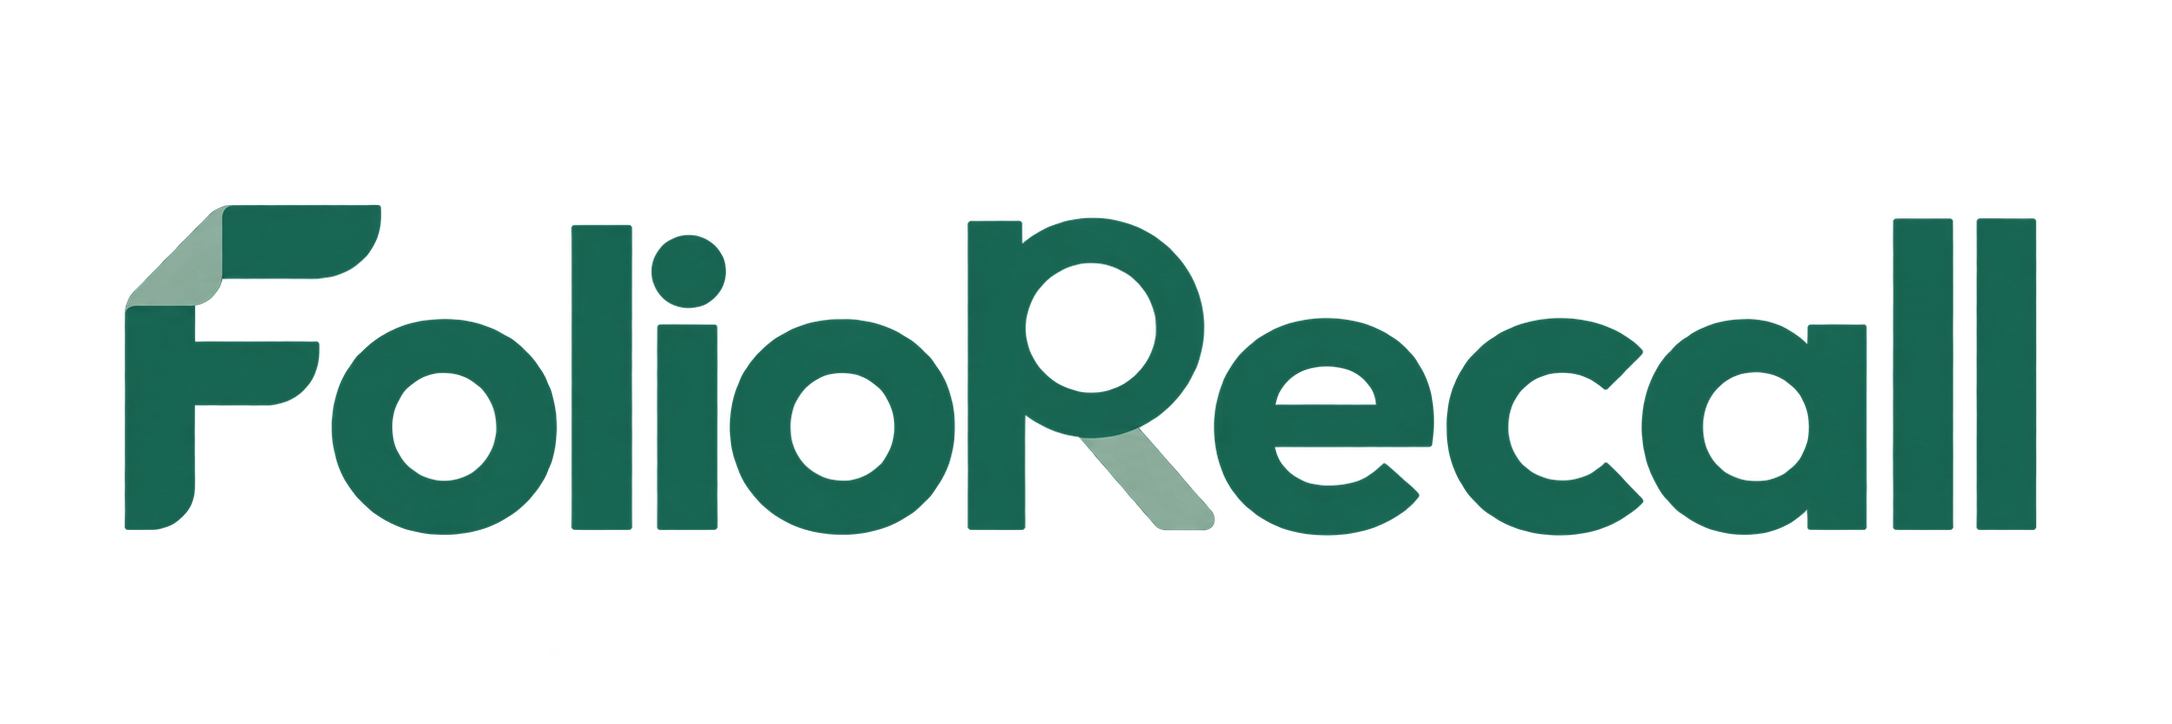
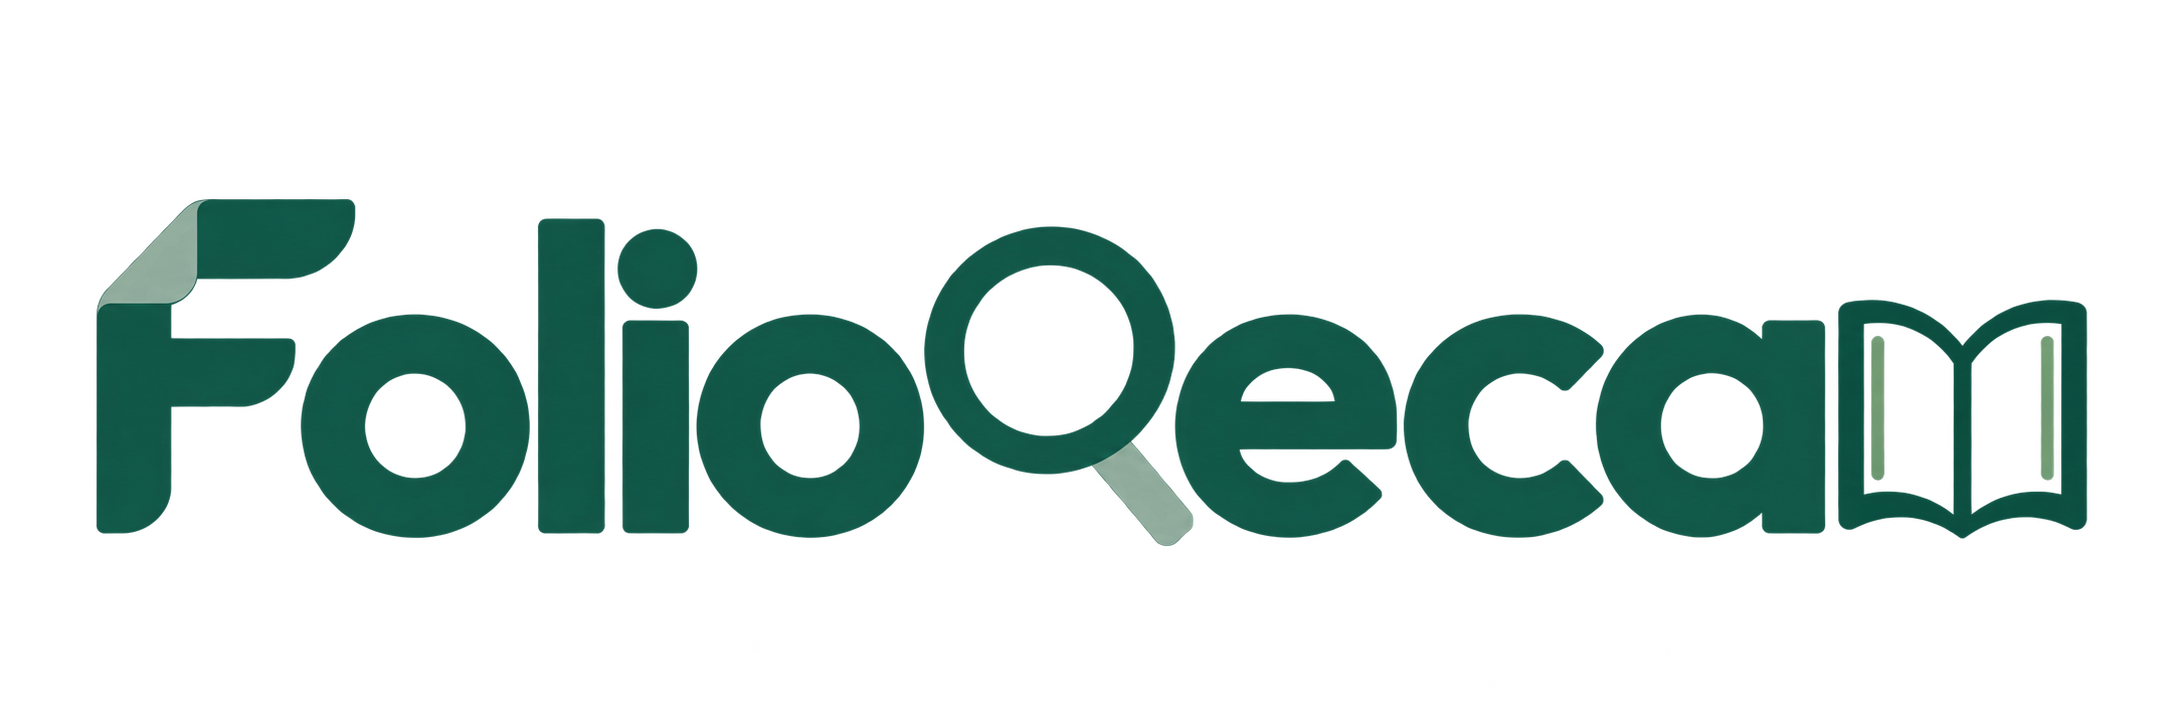
brand: 用放大镜替换 R 并将末尾 ll 融为书本

Changed region(s): [[0.0308, 0.2735, 0.9871, 0.7597]]

diff --git a/doc/assets/logo-source.md b/doc/assets/logo-source.md
@@ -1,6 +1,6 @@
 # FolioRecall 标识
 
-完整字标由项目名称 FolioRecall 变形构成：F 的上横融入翻页折角，R 的圆框和斜笔组成放大镜，保留竖笔以维持字母辨识度。首字母 F 单独用于浏览器图标。采用深绿与灰绿，图形保留透明底；页寻使用界面文字显示。
+完整字标由项目名称 FolioRecall 变形构成：F 的上横融入翻页折角，R 的位置直接使用放大镜，末尾两个 l 合并为打开的书本。首字母 F 单独用于浏览器图标。采用深绿与灰绿，图形保留透明底；页寻使用界面文字显示。完整项目名同时保留在README标题、图片替代文字和浏览器标题中。
 
 资源由 OpenAI 内置 image_gen 生成，未使用上游项目标识。原图为 `foliorecall-wordmark.png` 和 `foliorecall-lettermark.png`；前端与README使用 `foliorecall/assets/wordmark.png`，浏览器图标使用同目录 `logo.png`。附带发布包的 `branding` 目录提供原图和显示尺寸。
 
@@ -14,10 +14,24 @@ Use case: logo-brand. Design an original, thoughtful CUSTOM LETTERING LOGO for t
 
 ## R 放大镜修订提示
 
-以初版字标为输入，按用户要求将 R 改为放大镜。当前 `foliorecall-wordmark.png` 是此轮修订结果；首字母图标沿用初版 F。
+以初版字标为输入，第一次修订仍保留R竖笔。用户随后要求放大镜直接可辨，最终采用下方的完整图形替换；首字母图标沿用初版F。
 
 ```text
 Edit the supplied FolioRecall custom wordmark. Preserve the folded F and every lowercase letter exactly in design, typography, position, spelling and dark teal/sage palette. Change ONLY the capital R into an unmistakable magnifying-glass letterform, while keeping it clearly readable as R. Build its upper bowl as a truly circular magnifying-glass frame, with transparent empty lens, joined to the existing vertical left stem; use the diagonal R leg as a straight clean magnifier handle descending toward the lower right. Remove the current flowing curled ribbon leg; the new sage handle should be geometric, compact and match the thickness and rounded finishing of the rest of the type. The ring and upright are dark forest teal #176A58, handle muted sage #91B5A3. Do not add a separate magnifying-glass icon next to the text: the R itself IS the magnifier. Preserve clear separation from adjacent o and e. Keep the name spelled exactly FolioRecall, capital F and R. Preserve the minimalist flat, crisp, transparent-background logo, one horizontal wordmark, no caption, no decorative elements, no shadow, no gradients, no background fill. Maintain the same wide composition.
+```
+
+## R 直接替换为放大镜
+
+```text
+Make ONE very specific edit to this FolioRecall logo. The user wants an immediately recognizable literal MAGNIFYING GLASS in the position currently occupied by the uppercase R. DELETE THE ENTIRE R INCLUDING ITS LEFT VERTICAL STEM. Replace it with the familiar search icon: a clean perfectly circular ring with a large transparent empty lens, and an obvious short straight thick handle extending diagonally down and right at 45 degrees OUTSIDE the ring. No vertical stem at all, no P or R skeleton, no ribbon, no typographic interpretation of R. It must instantly look like a magnifying glass, not a letter with a stylized leg. The circle's stroke should be approximately half the thickness of the neighboring lowercase letters, so the lens looks spacious and unmistakable; the handle should be solid, clearly connected to the ring's outer bottom-right edge and remain visibly separate from the next e. Use dark forest teal for the circular frame and muted sage for the handle. Size the magnifier to fit the capital-letter space with its handle aligned to the baseline. Preserve all other letters exactly: Folio [magnifying glass icon replacing R] ecall. Preserve the distinctive folded corner F, the original letter shapes, overall typography, green palette, horizontal arrangement and generous transparency. Do not keep any residual stroke of the R. Do not add extra icons elsewhere. Wide transparent canvas. Flat crisp logo, no shadows, no gradients, no new text. The purpose is a name-integrated logo in which the search symbol is unambiguous at small size.
+```
+
+## 末尾 ll 合并为书本
+
+输入为已经替换放大镜的字标。当前 `foliorecall-wordmark.png` 是此次最终修订图。
+
+```text
+Edit ONLY the final two lowercase l letters at the far right of this existing logo. Preserve the folded F, all letters before the final ll, and especially the literal magnifying glass in the R position EXACTLY as supplied. Transform the terminal ll into ONE unmistakable small OPEN BOOK integrated into the wordmark: the pair of tall vertical strokes become the upright outside edges of two open pages, separated by a clear central spine/gutter; the upper and lower page contours gently meet at that central spine. Make the two facing pages visually read as a book, with open transparent interior and one restrained inset page-edge line on each side. Keep a tall compact silhouette recalling the two lowercase l stems, but allow this final unit modest extra width so the book is unmistakable at small UI size. Use dark forest teal outlines with one small muted sage page-edge accent; match the rounded geometric family and visual stroke weight of the wordmark. This book REPLACES the final ll, do not append an additional book after ll, and do not retain two ordinary l letters beside it. Keep visual text sequence F-o-l-i-o-[magnifying glass]-e-c-a-[open book representing ll]. Same baseline and cap height. No change to magnifying glass, no extra text, no unrelated decoration, no shadow or background. Flat clean logo on genuinely transparent background, one horizontal composition.
 ```
 
 ## 首字母图标生成提示

diff --git a/doc/多模态文档检索项目开发计划.md b/doc/多模态文档检索项目开发计划.md
@@ -45,7 +45,7 @@ GitHub 仓库名：`FolioRecall`。英文副标题：Page-level visual document 
 
 ### 当前开发重点
 
-**2026-10-14项目字标更新。** FolioRecall 名称直接构成标识，F 使用页面折角，R 的圆框和斜笔组成放大镜；前端标题和双语README采用完整字标，浏览器图标采用首字母F。原图、透明底显示尺寸和生成提示已保存，资源随wheel及源码包提供；完整候选同步，前一版整包保留在 `before-logo`。仓库外安装、浏览器字标显示及免费检索检查通过。本轮只调整品牌资源与展示，不改变检索、问答方法或评测结论，不新增百炼调用。仍等待用户审核，不推送或发布。
+**2026-10-14项目字标更新。** FolioRecall 名称直接构成标识，F 使用页面折角，R 直接替换为放大镜，末尾 ll 合并为打开的书本；前端标题和双语README采用完整字标，浏览器图标采用首字母F。原图、透明底显示尺寸和生成提示已保存，资源随wheel及源码包提供；完整候选同步，前一版整包保留在 `before-logo`。仓库外安装、浏览器字标显示及免费检索检查通过。本轮只调整品牌资源与展示，不改变检索、问答方法或评测结论，不新增百炼调用。仍等待用户审核，不推送或发布。
 
 **2026-10-14首次使用体验更新。** 接续 `61c656d`，来源显示改为去除扩展名、出版编号并截短的文件名简称，完整名称仍见提示、原页详情、检索明细和JSON，原引用ID与运行记录不变。顶部显示当前文档库，首问示例直接可见，依赖上文与需要新会话的示例分开说明；点击只填入问题和模式，不自动生成。配置生成服务时默认进入文档问答，免费服务仍显示页面检索。10项相关测试通过，仓库外安装后的浏览器检查覆盖默认页、示例填写、来源简称与原页跳转；问答仅使用模拟生成器，无新增API费用。候选wheel、源码、文档和截图同步，原整包保存在 `before-onboarding`。仍待用户审核，不推送；历史下载落盘未确认的局限保留。
 

diff --git a/doc/首版使用与评测.md b/doc/首版使用与评测.md
@@ -4,7 +4,7 @@
 
 ## v0.1.0 最终候选整合（2026-10-14）
 
-**项目标识。** 前端与双语README使用 FolioRecall 字形标识，F 的折角对应页面，R 的圆框和斜笔组成放大镜；浏览器标签采用F小图标。透明底原图、显示尺寸及生成提示见[资源说明](assets/logo-source.md)。标识使用内置image_gen生成，导出脚本只裁边、增加留白并缩放；不涉及模型或问答配置。wheel包含前端资源，发布附件的 `branding` 目录另附原图。仓库外安装后，实际浏览器检查了字标显示和免费ONNX检索，favicon响应与包内PNG一致；没有新增问答调用。前一版候选保留在 `before-logo`。
+**项目标识。** 前端与双语README使用 FolioRecall 字形标识，F 的折角对应页面，R 直接替换为放大镜，末尾 ll 合并为打开的书本；浏览器标签采用F小图标。透明底原图、显示尺寸及生成提示见[资源说明](assets/logo-source.md)。标识使用内置image_gen生成，导出脚本只裁边、增加留白并缩放；不涉及模型或问答配置。wheel包含前端资源，发布附件的 `branding` 目录另附原图。仓库外安装后，实际浏览器检查了字标显示和免费ONNX检索，favicon响应与包内PNG一致；没有新增问答调用。前一版候选保留在 `before-logo`。
 
 **首次使用与来源显示。** 顶部显示实际文档库的文档数、页数和文件名简称。简称仅用于检索预览、引用、折叠原页及执行步骤；完整文件名保留在提示、展开原页、检索明细与JSON，检索排名、引用ID及模型输入不变。启用生成服务时默认打开文档问答；免费服务默认页面检索。
 
